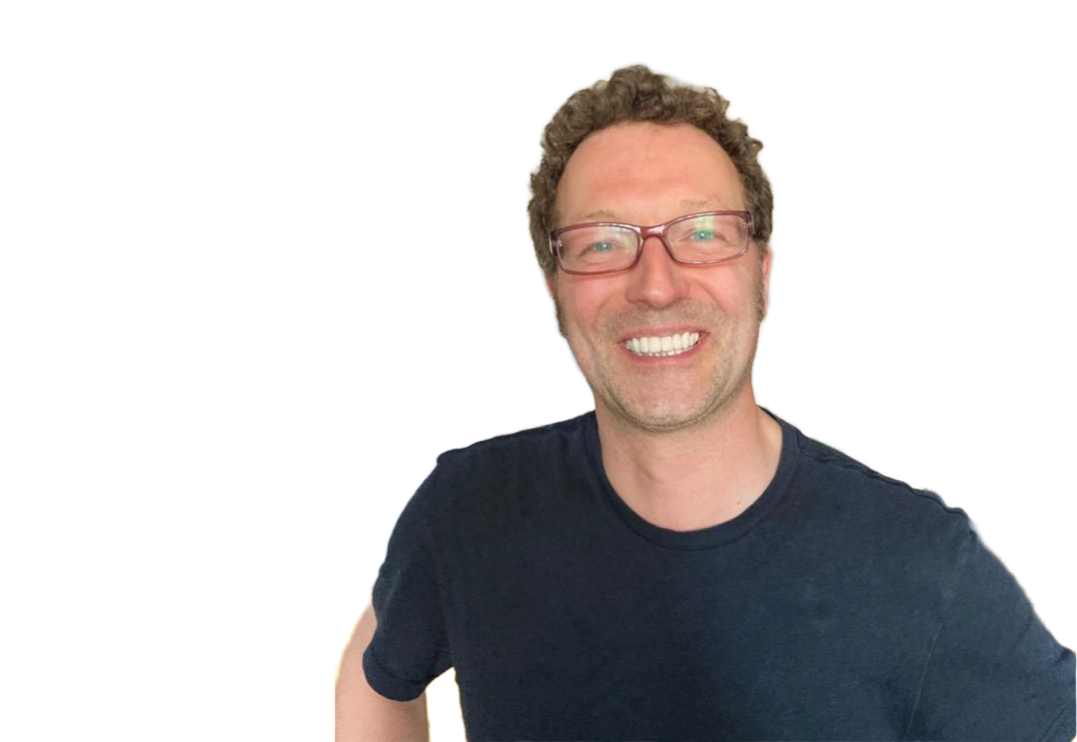
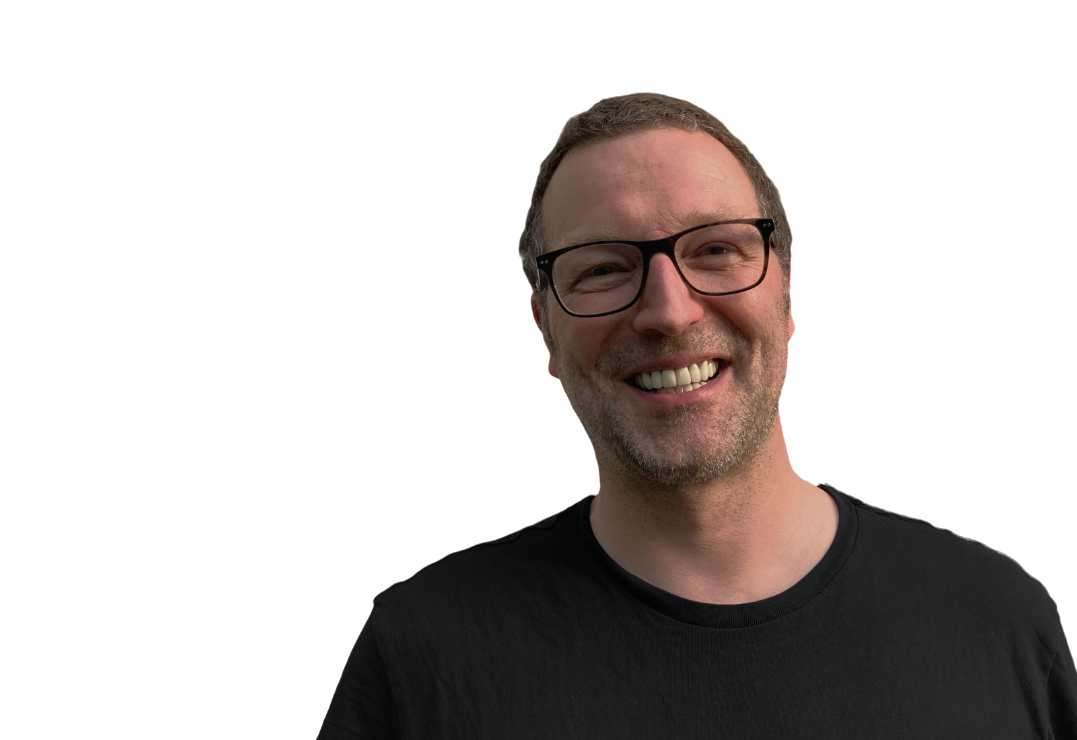
change the img

Changed region(s): [[0.2758, 0.0622, 1.0, 1.0], [0.5822, 0.9946, 0.6128, 1.0]]

diff --git a/index.html b/index.html
@@ -19,39 +19,59 @@
   </head>
   <body class="bg-body text-white font-poppins pb-12">
     <header class="py-6">
-      <!-- top navigation -->
+      <!-- top navigation with hamburger menu -->
       <div
-        class="container flex justify-between items-center mx-auto px-8 md:px-14 lg:px-24 w-full"
+        class="container relative flex justify-between items-center mx-auto px-8 md:px-14 lg:px-24 w-full"
       >
         <div class="text-lg font-bold">marcus.krause</div>
-        <div class="hidden md:flex space-x-12 items-center">
+        <nav class="hidden md:flex space-x-12 items-center">
           <a href="#" class="text-selected-text">home</a>
           <a href="#work">my work</a>
-          <a href="#clients">about me</a>
+          <a href="#about">about me</a>
           <a href="#hire" class="px-6 py-2 bg-theme font-bold">hire me</a>
-        </div>
-        <!-- hamburger menu -->
+        </nav>
+        <!-- hamburger menu button-->
         <div class="md:hidden">
-          <svg
-            width="26"
-            height="18"
-            viewBox="0 0 26 18"
-            fill="none"
-            xmlns="http://www.w3.org/2000/svg"
-          >
-            <path
-              d="M13 17.5H0.25V14.6667H13V17.5ZM25.75 10.4167H0.25V7.58333H25.75V10.4167ZM25.75 3.33333H13V0.5H25.75V3.33333Z"
-              fill="white"
-            />
-          </svg>
+          <button class="navbar-burger flex items-center justify-center">
+            <svg
+              width="26"
+              height="18"
+              viewBox="0 0 26 18"
+              fill="none"
+              xmlns="http://www.w3.org/2000/svg"
+            >
+              <path
+                d="M13 17.5H0.25V14.6667H13V17.5ZM25.75 10.4167H0.25V7.58333H25.75V10.4167ZM25.75 3.33333H13V0.5H25.75V3.33333Z"
+                fill="white"
+              />
+            </svg>
+          </button>
         </div>
       </div>
+      <!-- hamburger menu -->
+      <div class="navbar-menu relative z-50 hidden">
+        <div class="navbar-backdrop fixed inset-0 bg-gray-800 opacity-25"></div>
+        <nav
+          class="fixed top-0 right-0 bottom-0 flex flex-row w-5/6 max-w-sm py-6 px-6 bg-white border-r overflow-y-auto"
+        >
+          <div class="md:hidden right-0">
+            <a href="#" class="text-selected-text">home</a>
+            <a href="#work">my work</a>
+            <a href="#about">about me</a>
+            <a href="#hire" class="px-0.5 py-0.1 bg-theme font-bold">hire me</a>
+          </div>
+        </nav>
+      </div>
+
+      <!-- end top navigation -->
     </header>
 
+    <!-- main content -->
     <div
       class="container mt-16 flex justify-between items-center mx-auto px-8 md:px-14 lg:px-24 w-full"
     >
       <div class="flex flex-wrap md:flex-nowrap">
+        <!-- left side navigation -->
         <nav
           class="inline-block lg:mr-24 lg:w-4 fixed left-percentage hidden xl:block"
         >
@@ -93,17 +113,22 @@
           </div>
         </nav>
 
+        <!-- container head & button -->
         <div
           class="flex flex-wrap lg:ml-20 justify-center md:justify-start max-w-xl mt-0 md:my-36"
         >
+          <!-- headline -->
           <h1
             class="font-bold text-5xl md:text-6xl lg:text-7xl text-center md:text-left"
           >
             crafting<br />
-            of individual development.
+            individual development.
           </h1>
+
+          <!-- button view my work-->
           <div class="w-full flex justify-center md:justify-start">
-            <button
+            <a
+              href="#work"
               class="px-8 py-4 bg-theme text-white font-bold mt-12 flex items-center space-x-3"
             >
               <svg
@@ -124,13 +149,15 @@
               </svg>
 
               <span>view my work</span>
-            </button>
+            </a>
           </div>
         </div>
+
+        <!-- imgage -->
         <img
-          src="img/man.png"
-          alt="Man"
-          class="w-3/4 mt-12 md:absolute -mt-6 md:mt-0 right-0 -z-1"
+          src="img/marcus-portrait.png"
+          alt="Marcus Portrait"
+          class="w-1/2 mt-12 md:absolute -mt-6 md:mt-0 right-10 -z-1"
         />
       </div>
     </div>

diff --git a/main.js b/main.js
@@ -21,3 +21,44 @@ updateList()
 window.addEventListener('scroll', () => {
   updateList()
 })
+
+// Burger menus
+document.addEventListener('DOMContentLoaded', function () {
+  // open
+  const burger = document.querySelectorAll('.navbar-burger')
+  const menu = document.querySelectorAll('.navbar-menu')
+
+  if (burger.length && menu.length) {
+    for (var i = 0; i < burger.length; i++) {
+      burger[i].addEventListener('click', function () {
+        for (var j = 0; j < menu.length; j++) {
+          menu[j].classList.toggle('hidden')
+        }
+      })
+    }
+  }
+
+  // close
+  const close = document.querySelectorAll('.navbar-close')
+  const backdrop = document.querySelectorAll('.navbar-backdrop')
+
+  if (close.length) {
+    for (var i = 0; i < close.length; i++) {
+      close[i].addEventListener('click', function () {
+        for (var j = 0; j < menu.length; j++) {
+          menu[j].classList.toggle('hidden')
+        }
+      })
+    }
+  }
+
+  if (backdrop.length) {
+    for (var i = 0; i < backdrop.length; i++) {
+      backdrop[i].addEventListener('click', function () {
+        for (var j = 0; j < menu.length; j++) {
+          menu[j].classList.toggle('hidden')
+        }
+      })
+    }
+  }
+})
